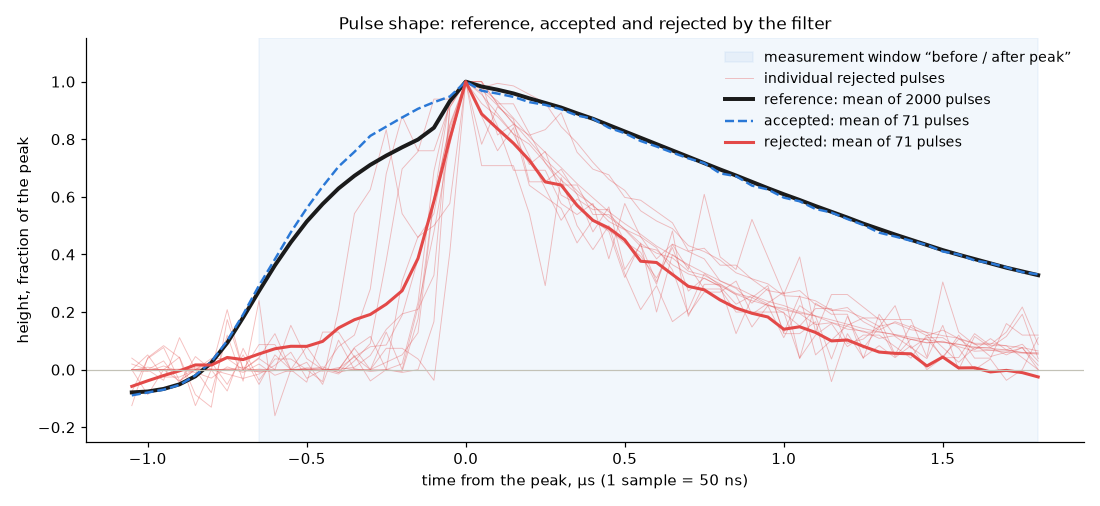
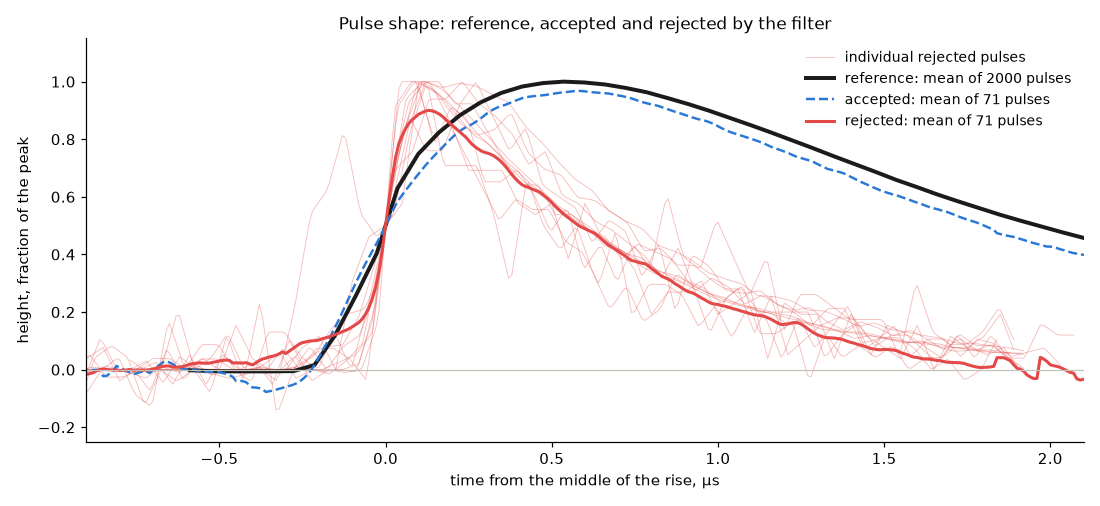
Фильтр формы: эталонный импульс копится с совмещением по середине фронта - без излома у вершины; высота остаётся по максимуму (замер разделения)

diff --git a/main/mca_dsp.c b/main/mca_dsp.c
@@ -146,11 +146,20 @@ static uint32_t  s_shp_chk_pend, s_shp_rej_pend;
  * них. Итог досчитывает mca_dsp_shape_poll; s_learn_gen отличает набор,
  * начатый заново, от досчитываемого. */
 static int16_t  *s_learn;
-static int32_t   s_wsum[SHAPE_WAVE_MAX];   /* сумма импульсов над базой, x8 */
+/* Средний импульс копится с совмещением по середине фронта: отсчёт i
+ * импульса ложится в ячейку i - c50 + WOFF, где c50 - первый отсчёт фронта
+ * выше половины высоты. Раньше импульсы совмещались по своему максимуму: на
+ * широкой вершине его место шум бросает на ~13 отсчётов (замер 2026-11-04,
+ * 59 импульсов), и средний импульс получал излом слева от вершины, которого
+ * у самих импульсов нет. В ячейке - сумма и сколько импульсов в неё легло. */
+#define WOFF (8 + 200)
+#define WBUF (2 * SHAPE_WAVE_MAX)
+static int32_t   s_wsum[WBUF];             /* сумма импульсов над базой, x8 */
+static int16_t   s_wcnt[WBUF];
 static volatile int32_t s_learn_n, s_learn_need;
 static int32_t   s_req_learn;              /* под LOCK                      */
 static uint32_t  s_learn_gen;
-static int32_t   s_learn_win, s_learn_hz, s_learn_pre;  /* условия набора  */
+static int32_t   s_learn_win, s_learn_hz;  /* условия набора               */
 static int32_t   s_lp10, s_lp50, s_lp90;   /* итог последнего набора        */
 static mca_shape_wave_t s_wave;            /* эталонный импульс, под LOCK   */
 /* Примеры для страницы: [0] - в допуске, [1] - вне. Задача обработки
@@ -280,11 +289,11 @@ void mca_dsp_service(bool idle)
     if (rl == 1 && s_learn) {
         /* 2.4 КБ во внутренней памяти - микросекунды */
         memset(s_wsum, 0, sizeof(s_wsum));
+        memset(s_wcnt, 0, sizeof(s_wcnt));
         LOCK();
         s_learn_gen++;
         s_learn_n    = 0;
         s_learn_win  = s_par.int_rise + s_par.int_fall + 1;
-        s_learn_pre  = 8 + s_par.int_rise;
         s_learn_hz   = (int32_t)adc_clk_get_freq();
         s_learn_need = SHAPE_LEARN_N;
         UNLOCK();
@@ -456,14 +465,20 @@ static bool shape_check(int32_t tpk, int end, int64_t num, int32_t den,
     s_whist[hb]++;
 
     /* эталон: только заметно выше порога, там шумовых всплесков мало;
-     * импульс копится в среднюю форму целиком - база и окно */
+     * импульс копится в среднюю форму целиком - база и окно, совмещённый
+     * по середине фронта */
     if (learn && s_learn && n == s_learn_win &&
         num >= (int64_t)3 * p->threshold * den) {
         const int32_t k = s_learn_n;
         if (k < s_learn_need) {
             s_learn[k] = (int16_t)(w10 > 32767 ? 32767 : w10);
-            for (int i = a - 8, j = 0; i <= b; i++, j++)
+            int c50 = pk;
+            while (c50 > a - 8 && s_work[c50 - 1] * 16 - 2 * base8 > h8) c50--;
+            for (int i = a - 8; i <= b; i++) {
+                const int j = i - c50 + WOFF;
                 s_wsum[j] += (int32_t)s_work[i] * 8 - base8;
+                s_wcnt[j]++;
+            }
             s_learn_n = k + 1;
         }
     }
@@ -1117,15 +1132,24 @@ bool mca_dsp_shape_poll(void)
     if (need <= 0 || n < need) return false;
     memcpy(v, s_learn, (size_t)n * sizeof(int16_t));
     qsort(v, (size_t)n, sizeof(int16_t), cmp_i16);
-    /* средний импульс - в тысячных от его вершины */
-    const int len = s_learn_win + 8, pre = s_learn_pre;
-    const int32_t top = s_wsum[pre] > 0 ? s_wsum[pre] : 1;
-    wv.len = (int16_t)len;
-    wv.pre = (int16_t)pre;
+    /* средний импульс - по ячейкам, куда легли не меньше 90 % импульсов
+     * (края окна у разных импульсов разные), в тысячных от его вершины */
+    int j0 = 0, j1 = -1;
+    for (int j = 0; j < WBUF; j++)
+        if (s_wcnt[j] * 10 >= n * 9) { if (j1 < 0) j0 = j; j1 = j; }
+    if (j1 - j0 + 1 > SHAPE_WAVE_MAX) j1 = j0 + SHAPE_WAVE_MAX - 1;
+    int pre = j0;
+    int64_t top = 1;
+    for (int j = j0; j <= j1; j++) {
+        const int64_t m = (int64_t)s_wsum[j] * 1000 / s_wcnt[j];
+        if (m > top) { top = m; pre = j; }
+    }
+    wv.len = (int16_t)(j1 >= j0 ? j1 - j0 + 1 : 0);
+    wv.pre = (int16_t)(pre - j0);
     wv.n   = (int16_t)n;
-    for (int i = 0; i < len; i++) {
-        int64_t x = (int64_t)s_wsum[i] * 1000 / top;
-        wv.v[i] = (int16_t)(x > 32767 ? 32767 : x < -32768 ? -32768 : x);
+    for (int j = j0; j <= j1; j++) {
+        const int64_t x = (int64_t)s_wsum[j] * 1000 / s_wcnt[j] * 1000 / top;
+        wv.v[j - j0] = (int16_t)(x > 32767 ? 32767 : x < -32768 ? -32768 : x);
     }
     bool ok = false;
     LOCK();

diff --git a/tools/dspmodel.py b/tools/dspmodel.py
@@ -36,6 +36,10 @@ MCA_ADC_MAX = _D['MCA_ADC_MAX']
 _DS = _defines(os.path.join(os.path.dirname(_HDR), 'mca_dsp.h'))
 SHAPE_HB = _DS['SHAPE_HB']
 SHAPE_LEARN_N = _DS['SHAPE_LEARN_N']
+# средний импульс копится с совмещением по середине фронта (mca_dsp.c)
+SHAPE_WAVE_MAX = 8 + 200 + 400 + 1
+WOFF = 8 + 200
+WBUF = 2 * SHAPE_WAVE_MAX
 
 
 def cdiv(a, b):
@@ -124,10 +128,10 @@ class DSP:
         self.whist = [0] * SHAPE_HB   # гистограмма ширины
         self.whist_win = 0
         self.learn = []           # набранные ширины x10
-        self.wsum = []            # сумма импульсов набора над базой, x8
+        self.wsum = []            # сумма импульсов набора над базой, x8 (по ячейкам)
+        self.wcnt = []            # сколько импульсов легло в ячейку
         self.learn_need = 0
         self.learn_win = 0
-        self.learn_pre = 0
         self.wave = None          # эталонный импульс: (отсчёты x1000, вершина, импульсов)
         self.examples = [None, None]  # последние в допуске / вне: (отсчёты, вершина, высота, ширина x10)
         self.shape_chk = 0
@@ -169,8 +173,8 @@ class DSP:
         p = self.p
         self.learn = []
         self.learn_win = p.int_rise + p.int_fall + 1
-        self.learn_pre = 8 + p.int_rise
-        self.wsum = [0] * (self.learn_win + 8)
+        self.wsum = [0] * WBUF
+        self.wcnt = [0] * WBUF
         self.learn_need = SHAPE_LEARN_N
 
     def finish_learn(self):
@@ -179,9 +183,19 @@ class DSP:
         v = sorted(self.learn)
         n = len(v)
         p = self.p
-        top = self.wsum[self.learn_pre] if self.wsum[self.learn_pre] > 0 else 1
-        wv = [max(-32768, min(32767, cdiv(x * 1000, top))) for x in self.wsum]
-        self.wave = (wv, self.learn_pre, n)
+        cells = [j for j in range(WBUF) if self.wcnt[j] * 10 >= n * 9]
+        j0, j1 = (cells[0], cells[-1]) if cells else (0, -1)
+        j1 = min(j1, j0 + SHAPE_WAVE_MAX - 1)
+        pre, top = j0, 1
+        for j in range(j0, j1 + 1):
+            m = cdiv(self.wsum[j] * 1000, self.wcnt[j])
+            if m > top:
+                top, pre = m, j
+        wv = []
+        for j in range(j0, j1 + 1):
+            m = cdiv(self.wsum[j] * 1000, self.wcnt[j])
+            wv.append(max(-32768, min(32767, cdiv(m * 1000, top))))
+        self.wave = (wv, pre - j0, n)
         p.shape_ref = v[n // 2]
         p.shape_win = self.learn_win
         p.shape_hz = self.fclk or 0
@@ -218,8 +232,13 @@ class DSP:
         if learn and n == self.learn_win and num >= 3 * p.threshold * den:
             if len(self.learn) < self.learn_need:
                 self.learn.append(min(w10, 32767))
-                for j, i in enumerate(range(a - 8, b + 1)):
+                c50 = pk                # середина фронта, как в прошивке
+                while c50 > a - 8 and w[c50 - 1] * 16 - 2 * base8 > h8:
+                    c50 -= 1
+                for i in range(a - 8, b + 1):
+                    j = i - c50 + WOFF
                     self.wsum[j] += w[i] * 8 - base8
+                    self.wcnt[j] += 1
         ok = True
         if cmp:
             tol = p.shape_ref * p.shape_tol // 100

diff --git a/tools/test_dsp.py b/tools/test_dsp.py
@@ -708,7 +708,10 @@ check("эталон совпал с шириной сцинтилляции по
 # средний импульс, который показывает страница: по форме генератора,
 # отсчёт за отсчётом от вершины (каждый импульс - своей высотой к 1)
 wv12, pre12, nw12 = d_l.wave
-dev12 = max(abs(y / 1000 - shape12[pk12 + j - pre12]) for j, y in enumerate(wv12))
+# у формы генератора вершина - два отсчёта по 1.0, средний импульс может
+# взять вершиной любой из них: сравниваем со сдвигом в пределах отсчёта
+dev12 = min(max(abs(y / 1000 - shape12[pk12 + j - pre12 + sh]) for j, y in enumerate(wv12))
+            for sh in (-1, 0, 1))
 print(f"  средний импульс: {len(wv12)} отсч., вершина {pre12}, из {nw12} импульсов, "
       f"наибольшее отличие от формы генератора {dev12:.3f}")
 check("средний импульс повторяет форму генератора (отличие не больше 0.05)", dev12 <= 0.05,

diff --git a/README.en.md b/README.en.md
@@ -481,8 +481,10 @@ chunk losses, core load 84 % in both runs.
 
 ![Pulse shape: reference, accepted and rejected](docs/shape-filter-pulses.en.png)
 
-The reference is the mean of 2000 pulses: rise ~0.6 µs, decay to half in
-~1.3 µs. The rejected ones are the mean of 71 pulses, one per page request:
+The reference is the mean of 2000 pulses aligned at the middle of the rise
+(learned at 16 MHz; the examples at 20 MHz, the axis is in microseconds): a
+round top ~0.5 µs after the middle of the rise, decay to half another ~1.4 µs
+later. The rejected ones are the mean of 71 pulses, one per page request:
 rise ~0.4 µs, decay to half in ~0.45 µs; among them there are small ones at
 the threshold (20–30 codes) and tall ones, up to the top of the ADC. Where the
 tall fast pulses come from was not checked (an assumption — muons in the PMT
@@ -874,6 +876,32 @@ pre-allocated memory.
   acquisitions (filter with the map and without) gave no losses. The cause
   was not found. (This is on background; the losses with a source at 20 MHz
   are a different matter, see “What it costs”.)
+- **A kink at the reference top.** At first the reference was accumulated
+  with pulses aligned at their highest sample. Real pulses have a wide,
+  almost flat top (~10 samples within 0.97–1.00), and noise throws the
+  position of the maximum around: for 59 pulses from 0.7 to 13.8 samples after
+  the middle of the rise. The rise on the left is steep, the decay on the
+  right is gentle — the mean got a step left of the top (0.84 → 0.93 → 1.00)
+  that the pulses do not have. Now pulses are aligned at the first rise
+  sample above half the height: the top is smooth (0.961 → 0.983 → 0.995 →
+  1.000 → 0.997). The model does not reproduce the kink (all its pulses have
+  the same top), so it was checked on the device. This is display only: it
+  does not affect the filter decision.
+- **The height is the maximum, not a smoothed top.** The maximum of several
+  nearly equal samples is biased up by noise (~2 codes): for a 300-code
+  pulse this is under 1 %, for a 20–30-code pulse (barium X-ray) 7–10 %, and
+  small real pulses come out narrower. Smoothing the top would fix this, but
+  a check on 71 accepted and 71 rejected pulses showed worse separation: noise
+  bursts have a sharp top, and smoothing widens them more.
+
+  | Height from | Small accepted (<60 codes) | Rejected: 95 % / max | Gap |
+  |---|---|---|---|
+  | 1 sample (kept) | 23.0–35.2 | 19.7 / 22.4 | 1.35 |
+  | 3 samples | 25.2–35.6 | 22.2 / 26.9 | 1.24 |
+  | 5 samples | 26.4–36.3 | 23.1 / 31.6 | 1.21 |
+
+  Gap — 5 % of accepted widths to 95 % of rejected. The tolerance (25–40 %)
+  covers the narrower width of small pulses.
 
 ### Other
 
